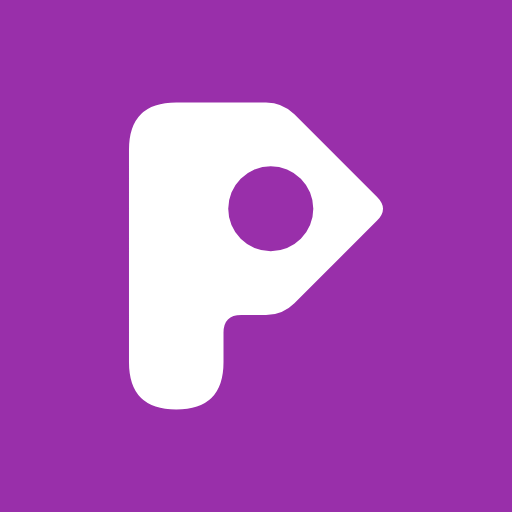
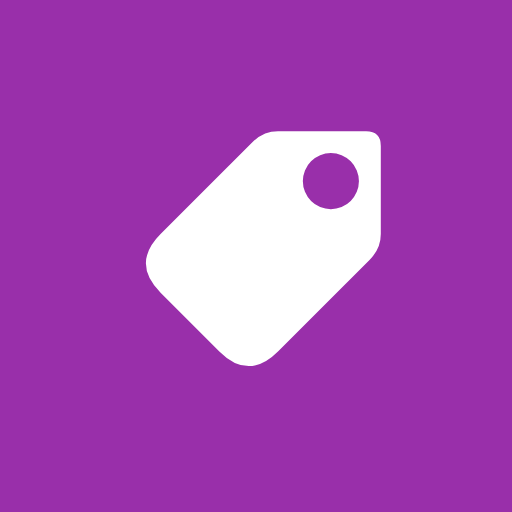
feat(brand): abstract tag symbol replaces the P monogram
Approved by tester and security-lgpd; CI green.

Changed region(s): [[0.25, 0.1875, 0.75, 0.8125]]

diff --git a/packages/ui/src/foundations/Brand.stories.tsx b/packages/ui/src/foundations/Brand.stories.tsx
@@ -72,13 +72,13 @@ function BrandPage() {
 
       <Section
         title="Símbolo"
-        description="Um P cuja barriga é uma etiqueta de preço. O furo da etiqueta é o olho da letra, e a haste desce como o p minúsculo do nome."
+        description="Uma etiqueta de preço, o sinal mais universal do comércio, inclinada para cima como quem acabou de vender. O furo do barbante fica perto da ponta."
       >
         <div className="flex flex-wrap items-center gap-6">
           <div className="rounded-lg p-6" style={SAND}>
             <img
               src={symbol}
-              alt="Símbolo da Purpler: a letra P com a barriga em forma de etiqueta de preço"
+              alt="Símbolo da Purpler: uma etiqueta de preço inclinada para cima"
               width={96}
               height={96}
             />
@@ -110,7 +110,7 @@ function BrandPage() {
                   src={version.src}
                   alt={`Logo da Purpler, versão ${version.name.toLowerCase()}`}
                   height={40}
-                  width={205}
+                  width={207}
                 />
               </div>
               <figcaption className="text-small">
@@ -123,7 +123,7 @@ function BrandPage() {
 
       <Section
         title="Área de proteção e tamanho mínimo"
-        description="x é a largura da haste do símbolo (cerca de 30% da altura do logo). Deixe no mínimo x livre em todos os lados."
+        description="x é o vão entre o símbolo e o nome (cerca de 35% da altura do logo). Deixe no mínimo x livre em todos os lados."
       >
         <div className="flex flex-wrap items-center gap-6">
           <div className="rounded-lg p-6" style={SAND}>
@@ -132,7 +132,7 @@ function BrandPage() {
                 src={logoLight}
                 alt="Logo da Purpler com a área de proteção marcada em tracejado"
                 height={40}
-                width={205}
+                width={207}
               />
             </div>
           </div>
@@ -140,7 +140,7 @@ function BrandPage() {
         <DataTable label="Tamanho mínimo do logo" head={['Peça', 'Tela', 'Impresso']}>
           <tr>
             <td className={cell}>Logo completo</td>
-            <td className={cell}>20 px de altura (cerca de 102 px de largura)</td>
+            <td className={cell}>20 px de altura (cerca de 104 px de largura)</td>
             <td className={cell}>6 mm de altura</td>
           </tr>
           <tr>
@@ -159,7 +159,7 @@ function BrandPage() {
         <div className="grid gap-4 sm:grid-cols-2 lg:grid-cols-3">
           <Card>
             <div className="flex h-24 items-center justify-center rounded-md" style={SAND}>
-              <img src={logoLight} alt="Logo em cor sobre areia" height={32} width={164} />
+              <img src={logoLight} alt="Logo em cor sobre areia" height={32} width={166} />
             </div>
             <Verdict ok>versão em cor sobre areia ou branco.</Verdict>
           </Card>
@@ -169,14 +169,14 @@ function BrandPage() {
                 src={logoDark}
                 alt="Logo para fundo escuro sobre ameixa"
                 height={32}
-                width={164}
+                width={166}
               />
             </div>
             <Verdict ok>versão para fundo escuro sobre ameixa 900 ou 950.</Verdict>
           </Card>
           <Card>
             <div className="flex h-24 items-center justify-center rounded-md" style={GRAPE}>
-              <img src={logoWhite} alt="Logo branco sobre uva 600" height={32} width={164} />
+              <img src={logoWhite} alt="Logo branco sobre uva 600" height={32} width={166} />
             </div>
             <Verdict ok>versão branca sobre uva 600.</Verdict>
           </Card>
@@ -190,7 +190,7 @@ function BrandPage() {
                   src={logoLight}
                   alt={`Exemplo de uso incorreto: ${misuse.label}`}
                   height={32}
-                  width={164}
+                  width={166}
                   style={misuse.style}
                 />
               </div>
@@ -208,6 +208,16 @@ function BrandPage() {
               </span>
             </div>
             <Verdict ok={false}>digitar o nome em outra fonte.</Verdict>
+          </Card>
+          <Card>
+            <div className="flex h-24 items-center justify-center gap-2 rounded-md" style={SAND}>
+              <img src={symbol} alt="" height={20} width={20} />
+              <span className="text-small font-medium text-foreground">Etiquetas</span>
+            </div>
+            <Verdict ok={false}>
+              usar o símbolo como ícone de interface. Para etiquetas e preços, use o ícone tag do
+              lucide.
+            </Verdict>
           </Card>
         </div>
         <p className="text-muted-foreground">

diff --git a/.changeset/bold-kids-draw.md b/.changeset/bold-kids-draw.md
@@ -1,0 +1,2 @@
+---
+---
